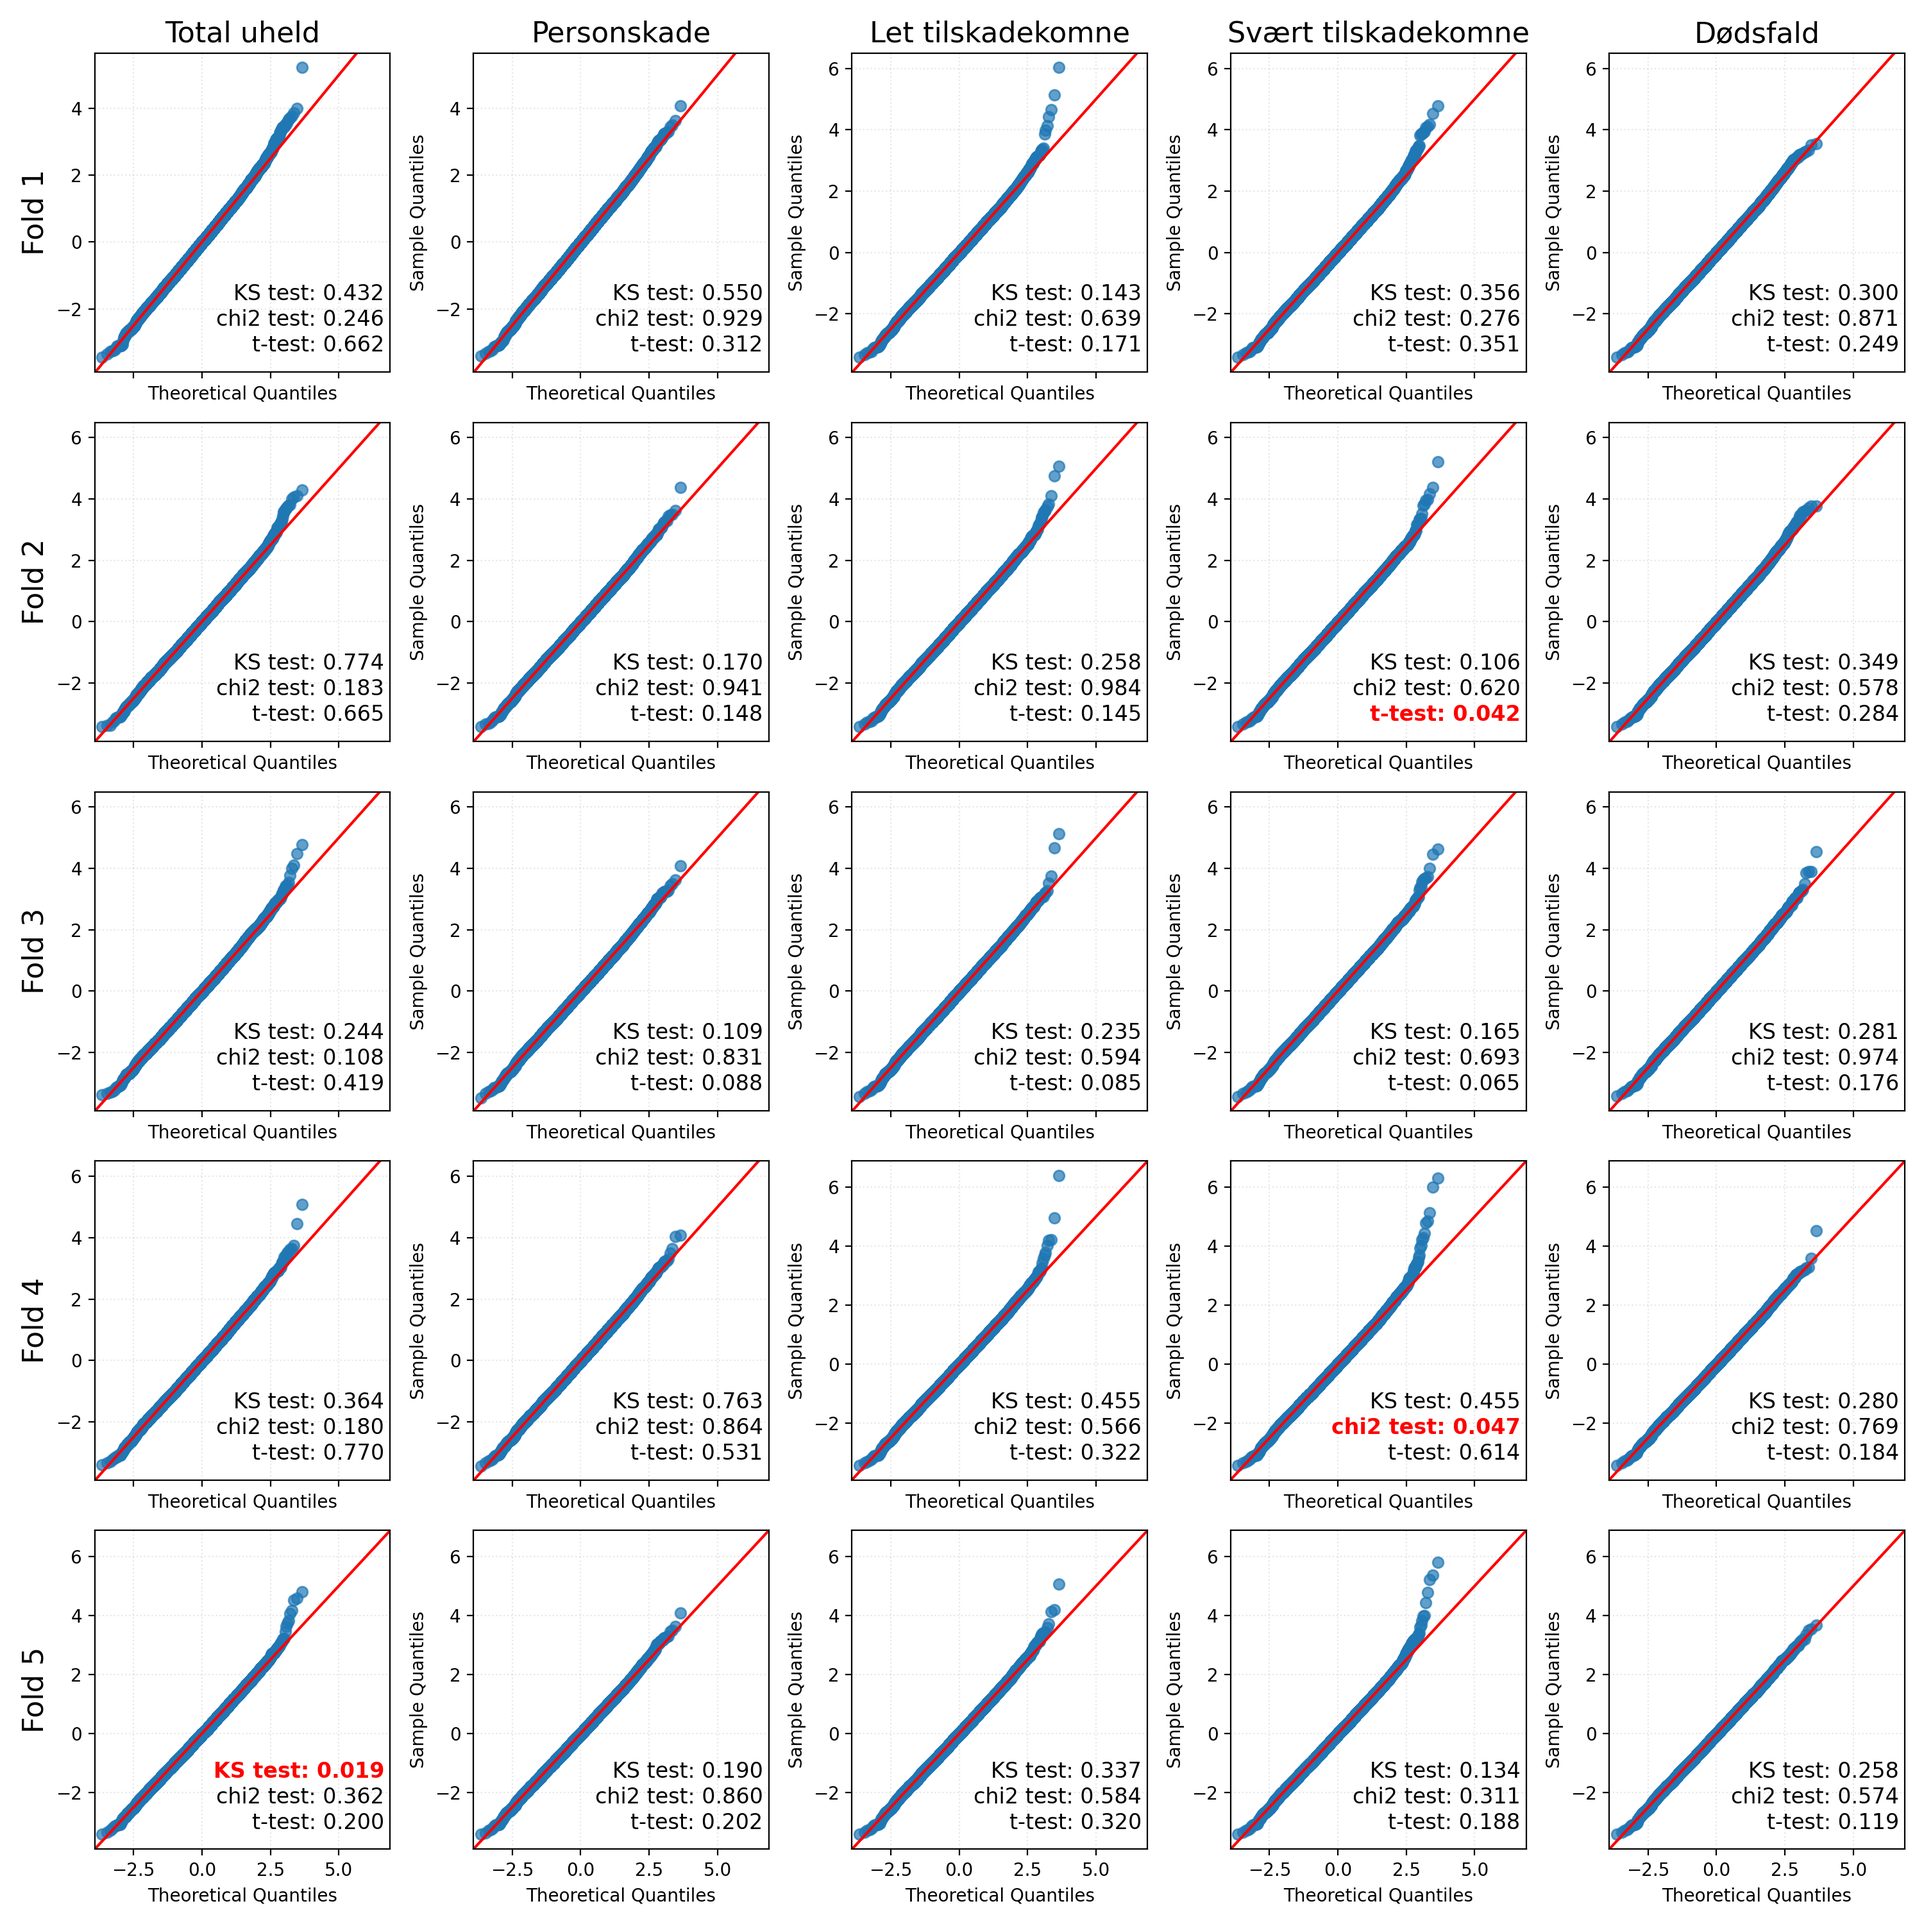
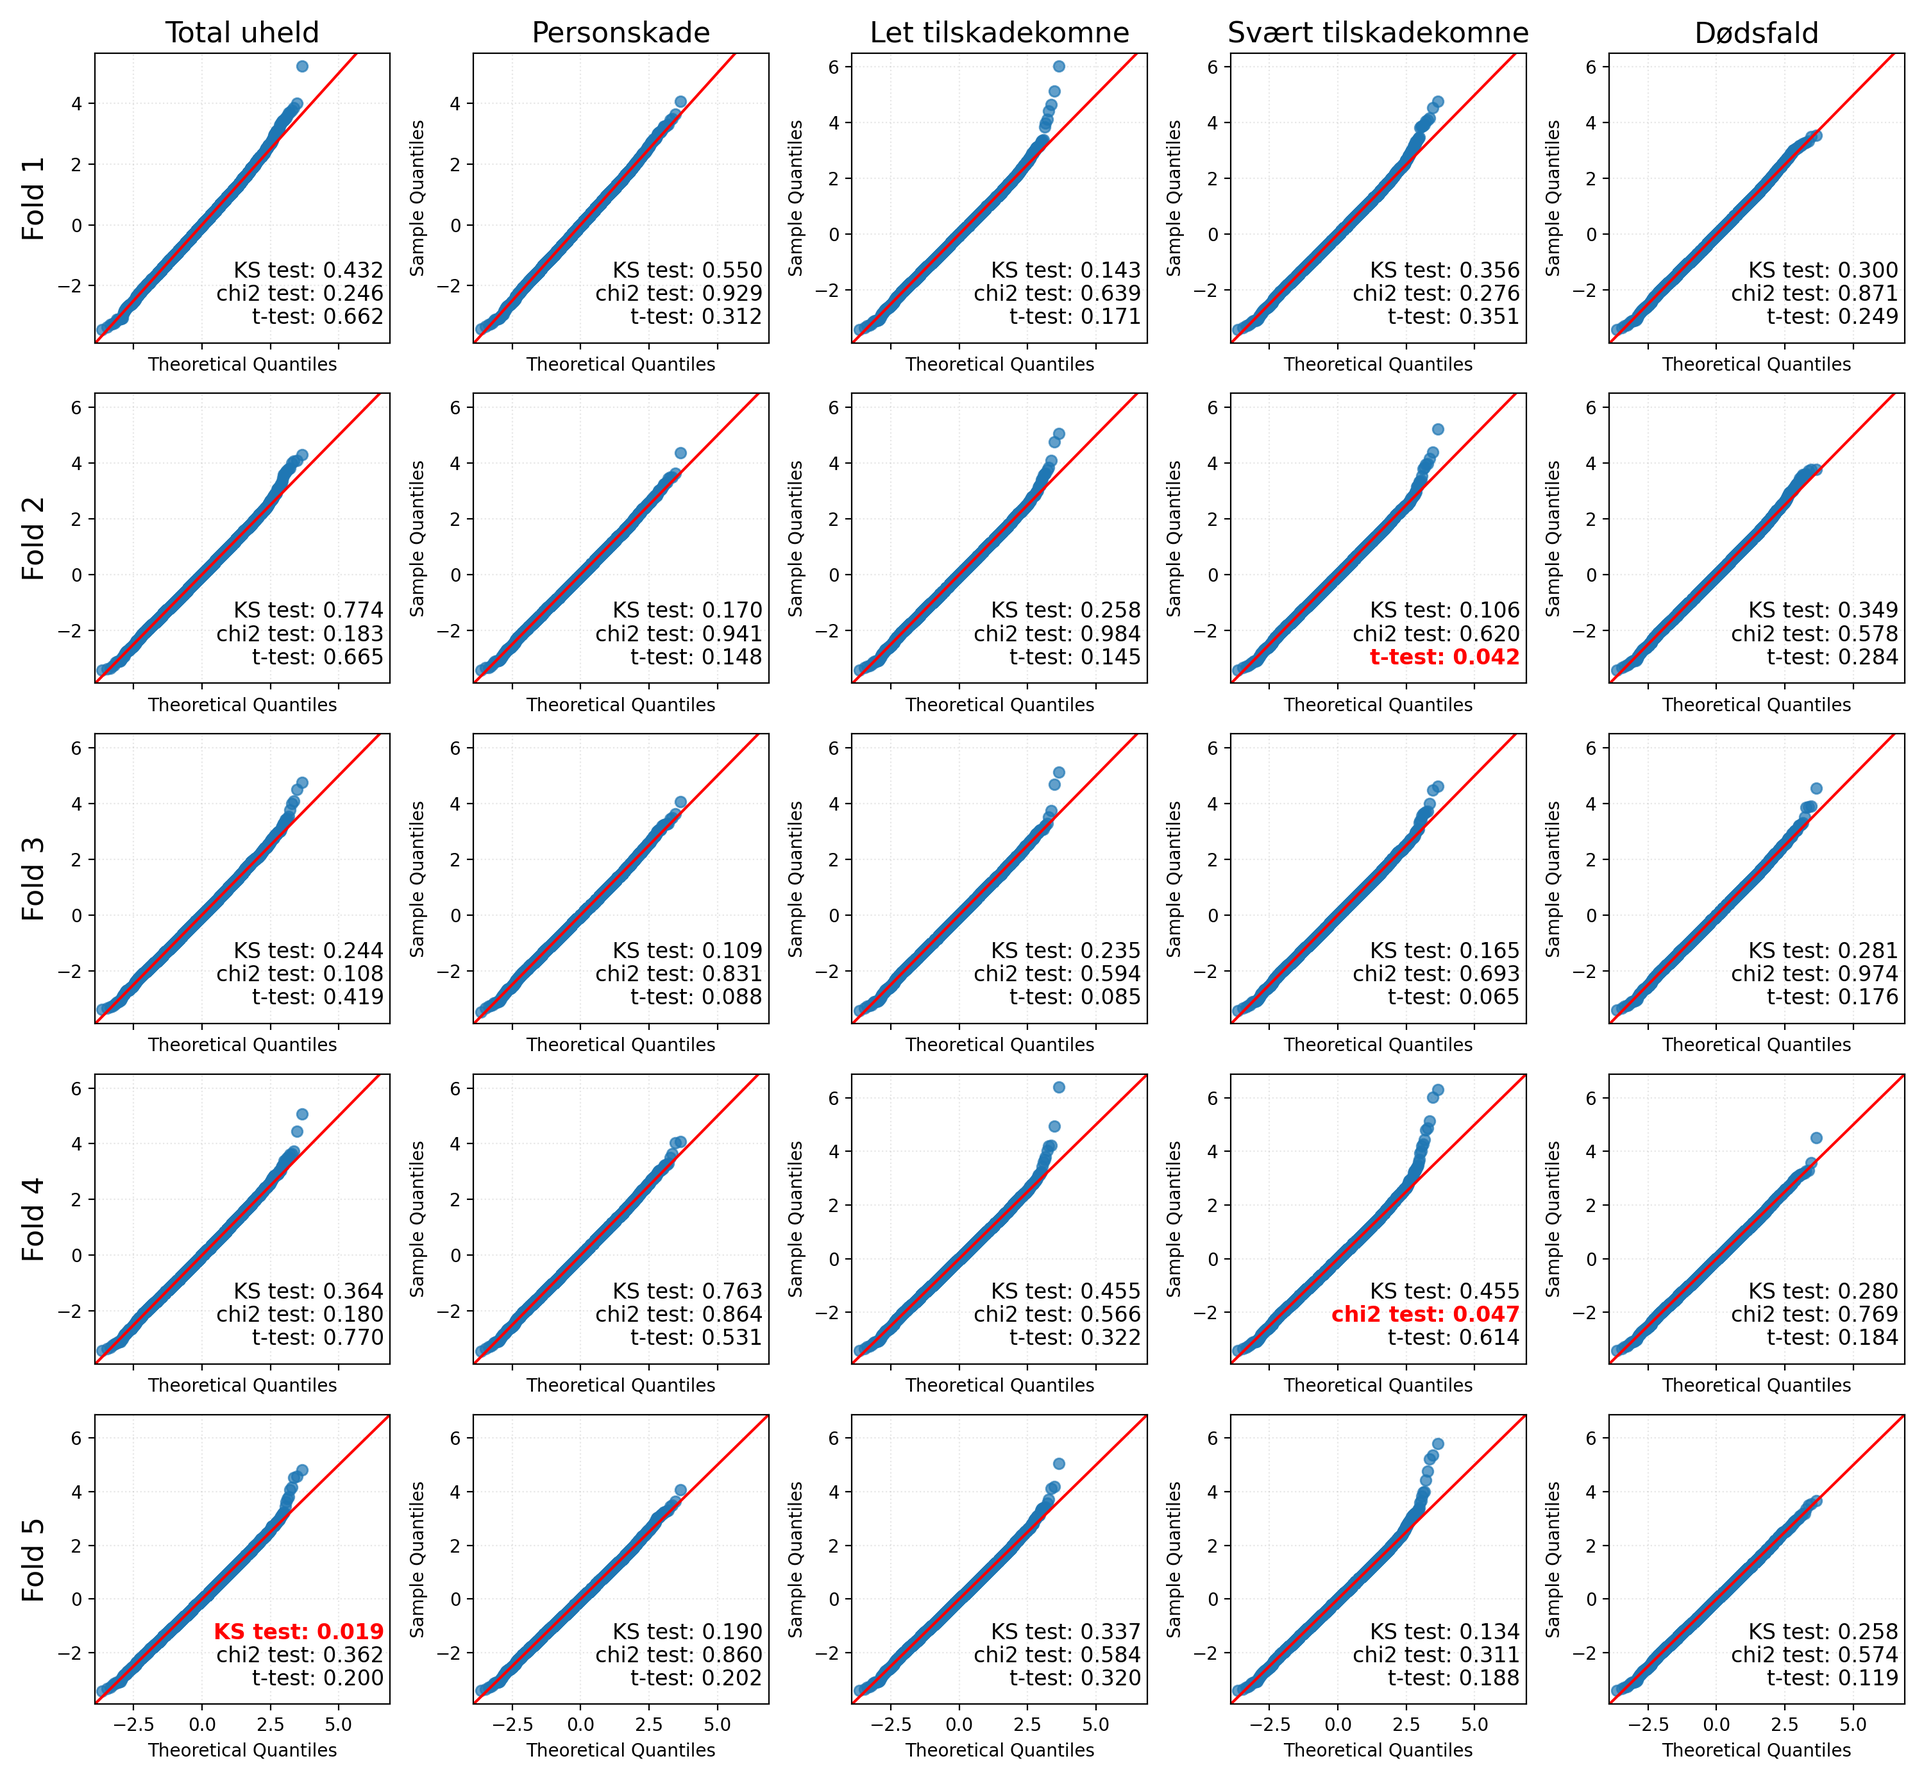
small format changes

diff --git a/Scripts/main.py b/Scripts/main.py
@@ -70,19 +70,28 @@ def main():
         "cv_params": df_params
     }
 
-def fit_and_save_params():
+def fit_and_save_params(modelname = 'JointModel'):
     """ Fit model on all data and save parameter table """
     DATA_PATH = "../Data/Model_Input/Uheld_LINKS.csv"
     print("\nFitting model on all data...")
-    data_obj = Data(path=DATA_PATH)
-    y, y_p, z, X, Z, W, exposure = data_obj.var_extract()
-    feature_names_X = ["Intercept"] + data_obj.FEATURES_X
-    feature_names_Z = ["Intercept"] + data_obj.FEATURES_Z
-    feature_names_W = ["Intercept"] + data_obj.FEATURES_W
+    if modelname == 'JointModel':
+        data_obj = Data(path=DATA_PATH)
+        y, y_p, z, X, Z, W, exposure = data_obj.var_extract()
+        feature_names_X = ["Intercept"] + data_obj.FEATURES_X
+        feature_names_Z = ["Intercept"] + data_obj.FEATURES_Z
+        feature_names_W = ["Intercept"] + data_obj.FEATURES_W
+    elif modelname == 'Baseline':
+        data_obj = Data(path=DATA_PATH,  FEATURES_X = [], FEATURES_Z = [], FEATURES_W = [])
+        y, y_p, z, X, Z, W, exposure = data_obj.var_extract()
+        feature_names_X = ["Intercept"]
+        feature_names_Z = ["Intercept"]
+        feature_names_W = ["Intercept"]
+        
+       
     model = Model()
     model.optimize(y, y_p, z, X, Z, W, exposure, verbose=True)
     df_params = build_param_table(model, feature_names_X, feature_names_Z, feature_names_W)
-    out_path = "../Results/all_data_params.csv"
+    out_path = f"../Results/{modelname}_params.csv"
     df_params.to_csv(out_path, index=False)
     print(f"\nParameter table saved to {out_path}")
     
@@ -95,4 +104,5 @@ if __name__ == "__main__":
     QQ_PLOT_ALL(results["cv_params"], results["cv_predictions"],
                     path = "../Results/Baseline/Figures")
     
-    fit_and_save_params()
+    fit_and_save_params('JointModel')
+    fit_and_save_params('Baseline')
